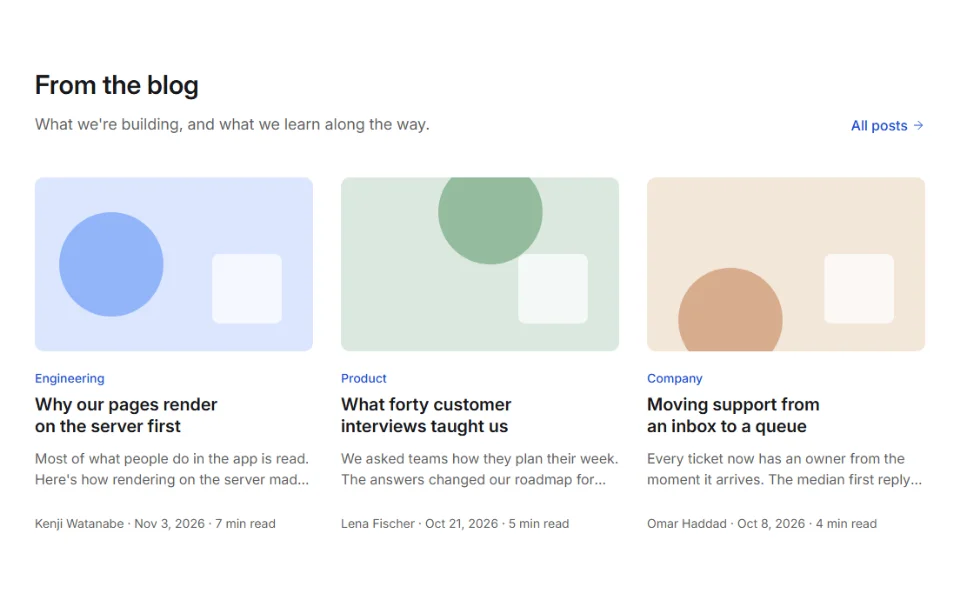
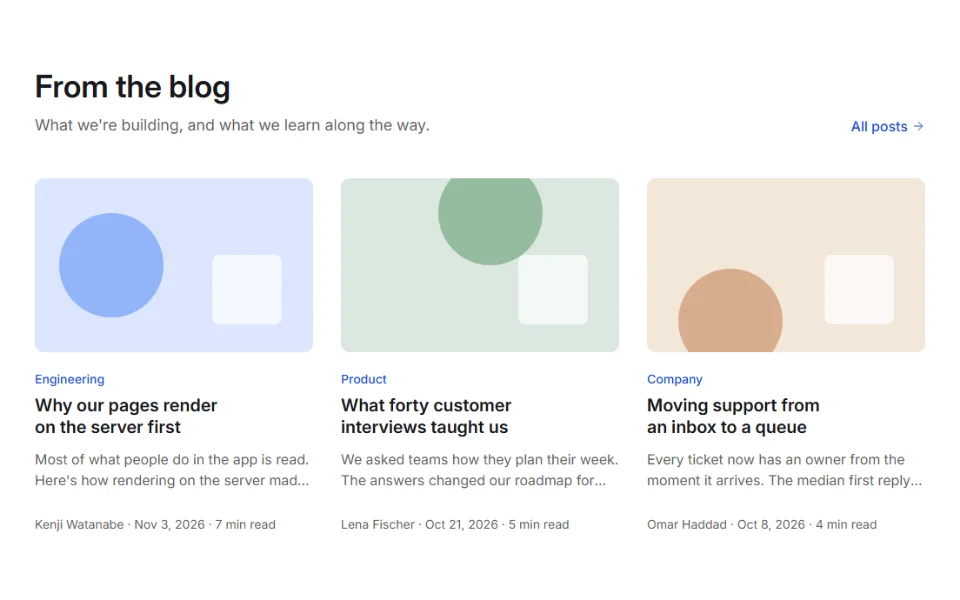
Blocks to the design's type and spacing: SectionHeader, Team, Pricing
SectionHeader's heading is 36px on desktop and 30px on phones (the spec's Xl3 was the design's
scale; ours is Xl4), 8px from its sentence, and its eyebrow is a soft primary pill. Team: name
and role sit together. Pricing: large cards, more room above the price and around the button,
"per person" under the price, "$0 forever", list items further apart.

diff --git a/src/IzzyBlazor.Core/Styles/components/layout.css b/src/IzzyBlazor.Core/Styles/components/layout.css
@@ -109,17 +109,11 @@
   .ib-section-header {
     display: flex;
     flex-direction: column;
-    gap: var(--ib-space-3);
+    gap: var(--ib-space-2);
     min-width: 0;
   }
 
   .ib-section-header > * { max-width: 40rem; margin: 0; }
-
-  .ib-section-header-eyebrow {
-    color: var(--ib-color-primary-text);
-    font-size: var(--ib-text-sm);
-    font-weight: var(--ib-weight-semibold);
-  }
 
   .ib-section-header-title {
     font-family: var(--ib-font-heading);

diff --git a/src/IzzyBlazor.Core/Components/Layout/SectionHeader.cs b/src/IzzyBlazor.Core/Components/Layout/SectionHeader.cs
@@ -17,7 +17,7 @@ namespace IzzyBlazor;
 /// <list type="bullet">
 /// <item><see cref="Title"/> is a heading, an <c>h2</c> by default, so the page's outline goes h1, then a heading per section.</item>
 /// <item>Give the section a name with <c>aria-labelledby</c> pointing at <see cref="TitleId"/>.</item>
-/// <item>The eyebrow is a paragraph before the heading, read before it.</item>
+/// <item>The eyebrow is a tag before the heading, read before it.</item>
 /// </list>
 /// </accessibility>
 /// <seealso cref="Section"/>
@@ -38,7 +38,7 @@ public class SectionHeader : StyledComponentBase
     /// <summary>A muted sentence under the heading: what the section is about.</summary>
     [Parameter] public string? Description { get; set; }
 
-    /// <summary>A short line above the heading in the accent color, such as "Pricing".</summary>
+    /// <summary>A short pill above the heading in the accent color, such as "Pricing". Leave it out on most sections: a pill on every one is noise.</summary>
     [Parameter] public string? Eyebrow { get; set; }
 
     /// <summary>
@@ -50,7 +50,7 @@ public class SectionHeader : StyledComponentBase
 
     /// <summary>
     /// The heading and sentence size: <see cref="ControlSize.Sm"/> (20px and 16px) for a section
-    /// in a card, <see cref="ControlSize.Md"/> (36px and 18px, 28px and 16px on phones; the
+    /// in a card, <see cref="ControlSize.Md"/> (36px and 18px, 30px and 16px on phones; the
     /// default), <see cref="ControlSize.Lg"/> (48px, 36px on phones) for a page made of one section.
     /// </summary>
     [Parameter] public ControlSize Size { get; set; } = ControlSize.Md;
@@ -65,8 +65,8 @@ public class SectionHeader : StyledComponentBase
         var (title, text) = Size switch
         {
             ControlSize.Sm => (StyleValues.TextSize(TextSize.Xl), StyleValues.TextSize(TextSize.Md)),
-            ControlSize.Lg => (StyleValues.FluidTextSize(TextSize.Xl3, TextSize.Xl5), StyleValues.FluidTextSize(TextSize.Md, TextSize.Lg)),
-            _ => (StyleValues.FluidTextSize(TextSize.Xl2, TextSize.Xl3), StyleValues.FluidTextSize(TextSize.Md, TextSize.Lg)),
+            ControlSize.Lg => (StyleValues.FluidTextSize(TextSize.Xl4, TextSize.Xl5), StyleValues.FluidTextSize(TextSize.Md, TextSize.Lg)),
+            _ => (StyleValues.FluidTextSize(TextSize.Xl3, TextSize.Xl4), StyleValues.FluidTextSize(TextSize.Md, TextSize.Lg)),
         };
         styles.AddVar("sh-title", title);
         styles.AddVar("sh-text", text);
@@ -90,24 +90,26 @@ public class SectionHeader : StyledComponentBase
         builder.AddAttribute(3, "style", style);
         if (!string.IsNullOrEmpty(Eyebrow))
         {
-            builder.OpenElement(4, "p");
-            builder.AddAttribute(5, "class", "ib-section-header-eyebrow");
-            builder.AddContent(6, Eyebrow);
-            builder.CloseElement();
+            builder.OpenComponent<Tag>(4);
+            builder.AddComponentParameter(5, nameof(Tag.Label), Eyebrow);
+            builder.AddComponentParameter(6, nameof(Tag.Accent), (Accent?)Accent.Primary);
+            builder.AddComponentParameter(7, nameof(Tag.Pill), true);
+            builder.AddComponentParameter(8, nameof(Tag.MarginBottom), (Responsive<int>)1);
+            builder.CloseComponent();
         }
-        builder.OpenElement(7, $"h{Math.Clamp(TitleLevel, 1, 6)}");
-        builder.AddAttribute(8, "class", "ib-section-header-title");
-        builder.AddAttribute(9, "id", TitleId);
-        builder.AddContent(10, Title);
+        builder.OpenElement(17, $"h{Math.Clamp(TitleLevel, 1, 6)}");
+        builder.AddAttribute(18, "class", "ib-section-header-title");
+        builder.AddAttribute(19, "id", TitleId);
+        builder.AddContent(20, Title);
         builder.CloseElement();
         if (!string.IsNullOrEmpty(Description))
         {
-            builder.OpenElement(11, "p");
-            builder.AddAttribute(12, "class", "ib-section-header-description");
-            builder.AddContent(13, Description);
+            builder.OpenElement(21, "p");
+            builder.AddAttribute(22, "class", "ib-section-header-description");
+            builder.AddContent(23, Description);
             builder.CloseElement();
         }
-        builder.AddContent(14, ChildContent);
+        builder.AddContent(24, ChildContent);
         builder.CloseElement();
     }
 }
